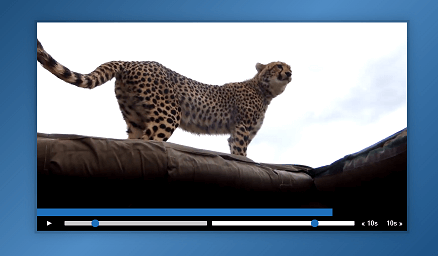
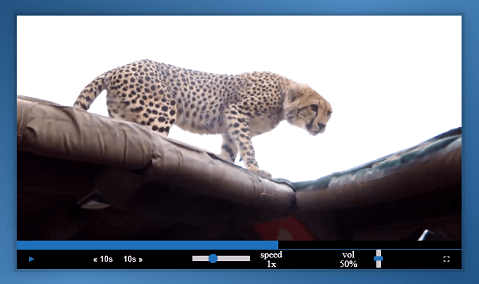
JavaScript30

diff --git a/day-11/script.js b/day-11/script.js
@@ -11,8 +11,11 @@ document.addEventListener("DOMContentLoaded", function() {
     const toggle = player.querySelector(".toggle");
     const skipButtons = player.querySelectorAll("[data-skip]");
     const skipBackwards = player.querySelector(".backwards");
-    const skipFowards = player.querySelector(".forwards");
+    const skipForwards = player.querySelector(".forwards");
     const ranges = player.querySelectorAll(".player-slider");
+    const volume = document.getElementById("volumeSpan");
+    const speed = document.getElementById("speedSpan");
+    const full = document.querySelector(".fullscreen");
 
 
 
@@ -20,6 +23,7 @@ document.addEventListener("DOMContentLoaded", function() {
         * building the functions
     */
 
+    // toggle between Play/Pause
     function togglePlay() {
         // if video is paused, toggle play and vice versa
         const method = video.paused ? "play": "pause";
@@ -27,49 +31,64 @@ document.addEventListener("DOMContentLoaded", function() {
         
     }
 
+    // update between Play/Pause buttons
     function updateButton() {
         const icon = this.paused ? "►" : "❚ ❚";
         toggle.textContent = icon;
     }
 
+    // skip video based on dataset value
     function skip() {
         video.currentTime += parseFloat(this.dataset.skip);
     }
 
+    // skip backwards (based on keyCode 'J')
     function skipBack() {
         video.currentTime += parseFloat(skipBackwards.dataset.skip);
     }
 
+    // skip forwards (based on keyCode 'L')
     function skipFwd() {
-        video.currentTime += parseFloat(skipFowards.dataset.skip);
+        video.currentTime += parseFloat(skipForwards.dataset.skip);
     }
 
-    // function fullScreen() {
-        
-    //     const method = video.requestFullscreen() ? cancelFullscreen(): requestFullscreen();
-    //     video[method]();
-    // }
-    function fullScreen() {
-        if (video.requestFullscreen) {
-            video.requestFullscreen();
-        } else if (video.mozRequestFullScreen) {
-            video.mozRequestFullScreen();
-        } else if (video.webkitRequestFullscreen) {
-            video.webkitRequestFullscreen();
-        } else if (video.msRequestFullscreen) {
-            video.msRequestFullscreen();
+    // toggle fullscreen (either keyCode 'F' or button)
+    var handleFullscreen = () => {
+        if (isFullScreen()) {
+            if (document.exitFullscreen) document.exitFullscreen();
+            else if (document.mozCancelFullScreen) document.mozCancelFullScreen();
+            else if (document.webkitCancelFullScreen) document.webkitCancelFullScreen();
+            else if (document.msExitFullscreen) document.msExitFullscreen();
+        } else {
+            if (video.requestFullscreen) video.requestFullscreen();
+            else if (video.mozRequestFullScreen) video.mozRequestFullScreen();
+            else if (video.webkitRequestFullScreen) video.webkitRequestFullScreen();
+            else if (video.msRequestFullscreen) video.msRequestFullscreen();
         }
     }
 
-    function handleRangeUpdate() {
-        video[this.name] = this.value;
+    var isFullScreen = () => {
+        return !!(document.fullScreen || document.webkitIsFullScreen || document.mozFullScreen || document.msFullscreenElement || document.fullscreenElement);
     }
 
+    // slide ranges (speed and volume)
+    function handleRangeUpdate() {
+        video[this.name] = this.value;
+        if (this.name == "volume") {
+            const percent = parseInt(this.value * 100);
+            volume.innerHTML = `${percent}%`;
+        } else if (this.name == "playbackRate") {
+            speed.innerHTML = this.value;
+        }
+    }
+
+    // update progress bar of video duration
     function handleProgress() {
-        const percent = (video.currentTime/ video.duration) * 100;
+        const percent = (video.currentTime / video.duration) * 100;
         progressBar.style.flexBasis = `${percent}%`;
     }
 
+    // scrub video progress bar of duration
     function scrub(e) {
         const scrubTime = (e.offsetX / progress.offsetWidth) * video.duration;
         video.currentTime = scrubTime;
@@ -90,9 +109,12 @@ document.addEventListener("DOMContentLoaded", function() {
         } else if (e.keyCode == 76) {
             skipFwd();
         } else if (e.keyCode == 70) {
-            fullScreen();
+            handleFullscreen();
         }
     }
+
+    //
+    full.addEventListener("click", handleFullscreen);
 
     // video
     video.addEventListener("click", togglePlay);

diff --git a/day-11/style.css b/day-11/style.css
@@ -1,5 +1,5 @@
 html {box-sizing: border-box;}
-*, *::before, *::after {box-sizing: inherit;}
+*, *::before, *::after {box-sizing: inherit; color: white;}
 
 body {
     margin: 0;
@@ -18,7 +18,6 @@ body {
     border: 5px solid rgba(0, 0, 0, 0.2);
     box-shadow: 0 0 20px rgba(0, 0, 0, 0.2);
     position: relative;
-    font-size: 0;
     overflow: hidden;
 }
 
@@ -32,7 +31,6 @@ body {
     background: none;
     border: 0;
     line-height: 1;
-    color: white;
     text-align: center;
     outline: 0;
     padding: 0;
@@ -40,8 +38,11 @@ body {
     max-width: 50px;
 }
 
+#volume, #speed {max-width: 60px; line-height: 1; text-align: center; vertical-align: middle;}
+button:hover {color: #1f70bb; font-weight: bold;}
 .player-button:focus {border-color: #1f70bb;}
 .player-slider {width: 10px; height: 30px;}
+span.none {max-width: 5vw;}
 
 .player-controls {
     display: flex;
@@ -51,7 +52,7 @@ body {
     transform: translateY(100%) translateY(-5px);
     transition: all 0.3s ease-in-out;
     flex-wrap: wrap;
-    background: rgba(0, 0, 0, 0.75);
+    background-color: black;
 }
 
 .player:hover .player-controls {transform: translateY(0);}
@@ -67,6 +68,7 @@ body {
     transition: height 0.3s;
     background: rgba(0, 0, 0, 0.75);
     cursor: ew-resize;
+    border-bottom: 1px solid #1f70bb;
 }
 
 .progress-filled {
@@ -74,6 +76,11 @@ body {
     background: #1f70bb;
     flex: 0;
     flex-basis: 1%;
+}
+
+input[type=range].volume {
+    transform: rotateZ(270deg);
+    max-width: 30px;
 }
 
 input[type=range] {-webkit-appearance: none; background: transparent; width: 100%; margin: 0 5px;}
@@ -99,6 +106,13 @@ input[type=range]::-webkit-slider-thumb {
     margin-top: -3.5px;
     box-shadow: 0 0 2px rgba(0, 0, 0, 0.2);
 }
+
+input[type=range].volume::-webkit-slider-thumb {
+    border-radius: 0;
+    width: 7px;
+}
+
+input[type=range].speed {max-width: 10vw;}
 
 input[type=range]:focus::-webkit-slider-runnable-track {
     background: white;

diff --git a/day-11/index.html b/day-11/index.html
@@ -21,11 +21,18 @@
             <div class="progress">
                 <div class="progress-filled"></div>
             </div>
-            <button class="player-button toggle" title="Toggle Play">►</button>
-            <input type="range" name="volume" class="player-slider volume" min="0" max="1" step="0.05" value="1">
-            <input type="range" name="playbackRate" class="player-slider speed" min="0.5" max="2" step="0.1" value="1">
-            <button class="player-button backwards" data-skip="-10">« 10s</button>
-            <button class="player-button forwards" data-skip="10">10s »</button>
+            <button class="player-button toggle" title="Toggle Play (K)">►</button>
+            <span class="none"></span>
+            <button class="player-button backwards" title="Backwards (J)" data-skip="-10">« 10s</button>
+            <button class="player-button forwards" title="Forwards (L)" data-skip="10">10s »</button>
+            <span class="none"></span>
+            <input type="range" name="playbackRate" title="Speed" class="player-slider speed" min="0.5" max="2" step="0.25" value="1">
+            <label for="playbackRate" id="speed">speed<br><span id="speedSpan">1</span>x</label>
+            <span class="none"></span>
+            <label for="volume" id="volume">vol<br><span id="volumeSpan">50%</span></label>
+            <input type="range" name="volume" title="Volume" class="player-slider volume" min="0" max="1" step="0.05" value="0.5">
+            <span class="none"></span>
+            <button class="player-button fullscreen" title="Fullscreen (F)">&#9974;</button>
         </div>
     </div>
 
